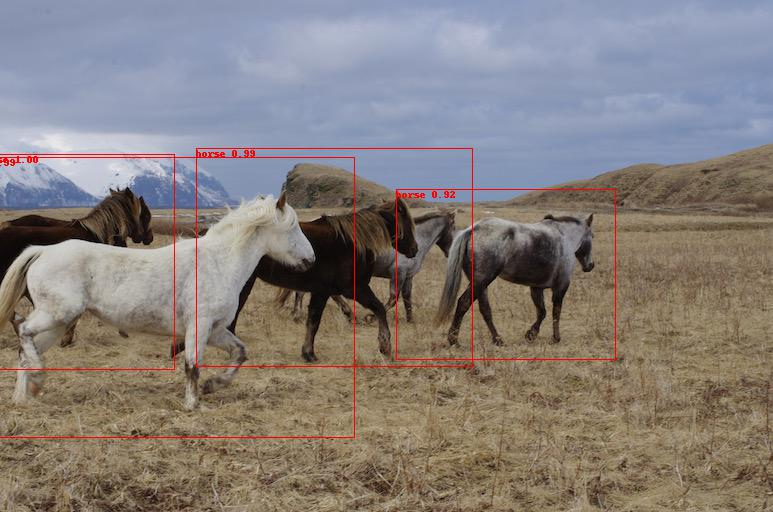
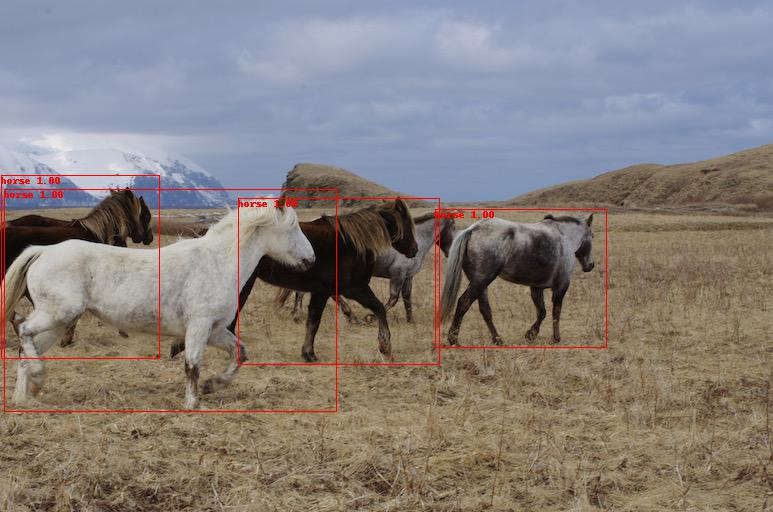
add resolution support

Changed region(s): [[0.0, 0.2812, 0.8072, 0.875]]

diff --git a/src/utils.py b/src/utils.py
@@ -1,9 +1,7 @@
 import os
-import cv2
 import torch
 import numpy as np
 from torchvision import transforms
-from torch.autograd import Variable
 from PIL import Image, ImageFont, ImageDraw, ImageEnhance
 opj = os.path.join
 
@@ -42,33 +40,6 @@ def parse_cfg(cfgfile):
   blocks.append(block)
 
   return blocks
-
-
-def get_test_input():
-  """Generate test image"""
-  img = cv2.imread("../assets/test.png")
-  img = cv2.resize(img, (416, 416))          # resize to the input dimension
-  img_ = img[:, :, ::-1].transpose((2, 0, 1))  # BGR -> RGB | H X W C -> C X H X
-  img_ = img_[np.newaxis, :, :, :]/255.0       # Add a channel at 0 (for batch) | Normalise
-  img_ = torch.from_numpy(img_).float()     # Convert to float
-  img_ = Variable(img_)                     # Convert to Variable
-  return img_
-
-
-def prepare_images(img, input_dim):
-  img = cv2.resize(img, (input_dim, input_dim))
-  img = img[:, :, ::-1].transpose((2, 0, 1)).copy()
-  img = torch.from_numpy(img).float().div(255.0).unsqueeze(0)
-
-  img_w, img_h = img.shape[1], img.shape[0]
-  w, h = input_dim
-  new_w = int(img_w * min(w/img_w, h/img_h))
-  new_h = int(img_h * min(w/img_w, h/img_h))
-  resized_image = cv2.resize(img, (new_w, new_h), interpolation=cv2.INTER_CUBIC)
-  canvas = np.full((input_dim[1], input_dim[0], 3), 128)
-  canvas[(h-new_h)//2:(h-new_h)//2 + new_h, (w-new_w)//2:(w-new_w)//2 + new_w, :] = resized_image
-
-  return canvas
 
 
 def transform_coord(bbox):
@@ -137,7 +108,7 @@ def prepare_eval_dataset(path, reso, batch_size=1):
   return img_datasets, dataloader
 
 
-def save_detection(img_path, detection, dets_dir):
+def save_detection(img_path, detection, dets_dir, reso):
   """
   Draw and save detection result
 
@@ -146,14 +117,15 @@ def save_detection(img_path, detection, dets_dir):
     detection: (np.array) detection result, with size [#bbox, 8]
       8 = [batch_idx, top-left x, top-left y, bottom-right x, bottom-right y, objectness, conf, class idx]
     dets_dir: (str) detection result save path
+    reso: (int) image resolution
   """
   class_names = config.datasets['coco']['class_names']
   img_name = img_path.split('/')[-1]
 
   img = Image.open(img_path)
   w, h = img.size
-  h_ratio = h / 320  # TODO: fix consts
-  w_ratio = w / 320
+  h_ratio = h / reso  # TODO: fix consts
+  w_ratio = w / reso
   h_ratio, w_ratio
   draw = ImageDraw.Draw(img)
 

diff --git a/src/test.py b/src/test.py
@@ -14,7 +14,6 @@ from utils import prepare_eval_dataset, save_detection
 def parse_arg():
   parser = argparse.ArgumentParser(description='YOLO v3 training')
   parser.add_argument('--reso', default=416, type=int, help="Input image resolution of the network")
-  parser.add_argument('--save', action='store_true', help="Save detection result")
   return parser.parse_args()
 
 
@@ -26,9 +25,10 @@ if __name__ == '__main__':
   weights = config.network['weights']  # pretrained weights path
   images = config.test['images_dir']   # eval images directory
   dets = config.test['result_dir']     # detection result directory
+  assert args.reso % 32 == 0, "Resolution must be interger times of 32"
 
   print("\n==> Loading network ...\n")
-  yolo = YOLOv3(cfg, 320)  # TODO: input dim
+  yolo = YOLOv3(cfg, args.reso)  # TODO: input dim
   yolo.load_weights(weights)
   yolo = yolo.cuda()
 
@@ -43,8 +43,7 @@ if __name__ == '__main__':
     inputs = inputs.cuda()
     prediction = yolo(inputs)
     detection = nms(prediction, num_classes)
-    
-    if args.save == True:
-      img_path = img_datasets.get_path(batch_idx)
-      save_detection(img_path, detection.data.cpu().numpy(), dets)
+  
+    img_path = img_datasets.get_path(batch_idx)
+    save_detection(img_path, detection.data.cpu().numpy(), dets, args.reso)
 

diff --git a/src/model.py b/src/model.py
@@ -1,9 +1,10 @@
 import torch
 import numpy as np
 import torch.nn as nn
+from torch.autograd import Variable
 
 from layers import MaxPool1s, EmptyLayer, DetectionLayer
-from utils import parse_cfg, get_test_input, IoU, transform_coord
+from utils import parse_cfg, IoU, transform_coord
 
 
 class YOLOv3(nn.Module):
@@ -287,6 +288,20 @@ def nms(prediction, num_classes, conf_thresh=0.5, nms_thresh=0.4):
       output = torch.cat(seq, 1) if output.size(0) == 0 else torch.cat((output, torch.cat(seq, 1)))
 
   return output
+
+
+
+def get_test_input():
+  """Generate test image"""
+  import cv2
+  img = cv2.imread("../assets/test.png")
+  img = cv2.resize(img, (416, 416))          # resize to the input dimension
+  img_ = img[:, :, ::-1].transpose((2, 0, 1))  # BGR -> RGB | H X W C -> C X H X
+  img_ = img_[np.newaxis, :, :, :]/255.0       # Add a channel at 0 (for batch) | Normalise
+  img_ = torch.from_numpy(img_).float()     # Convert to float
+  img_ = Variable(img_)                     # Convert to Variable
+  return img_
+
 
 
 if __name__ == '__main__':

diff --git a/README.md b/README.md
@@ -35,11 +35,17 @@ To be implemented
 
 ## 🎯 Evaluation
 
+### How to run this code
+
 1. Download pretrained YOLO v3 weights [here](https://pjreddie.com/media/files/yolov3.weights) and move it to `static/yolov3.weights`
 2. Run `python test.py --save`
 3. You can sepcify detection images directory and detection results directory in `config.py`
 
-Evaluation example
+### Inputs arguments
+
+* `--reso`, image resolution. Image will be resize to `(reso, reso)` during evaluation. The higher resolution is, the more accurate the detection
+
+### Evaluation example
 
 ![](https://raw.githubusercontent.com/ECer23/yolov3.pytorch/master/assets/dets/person.jpg)
 
